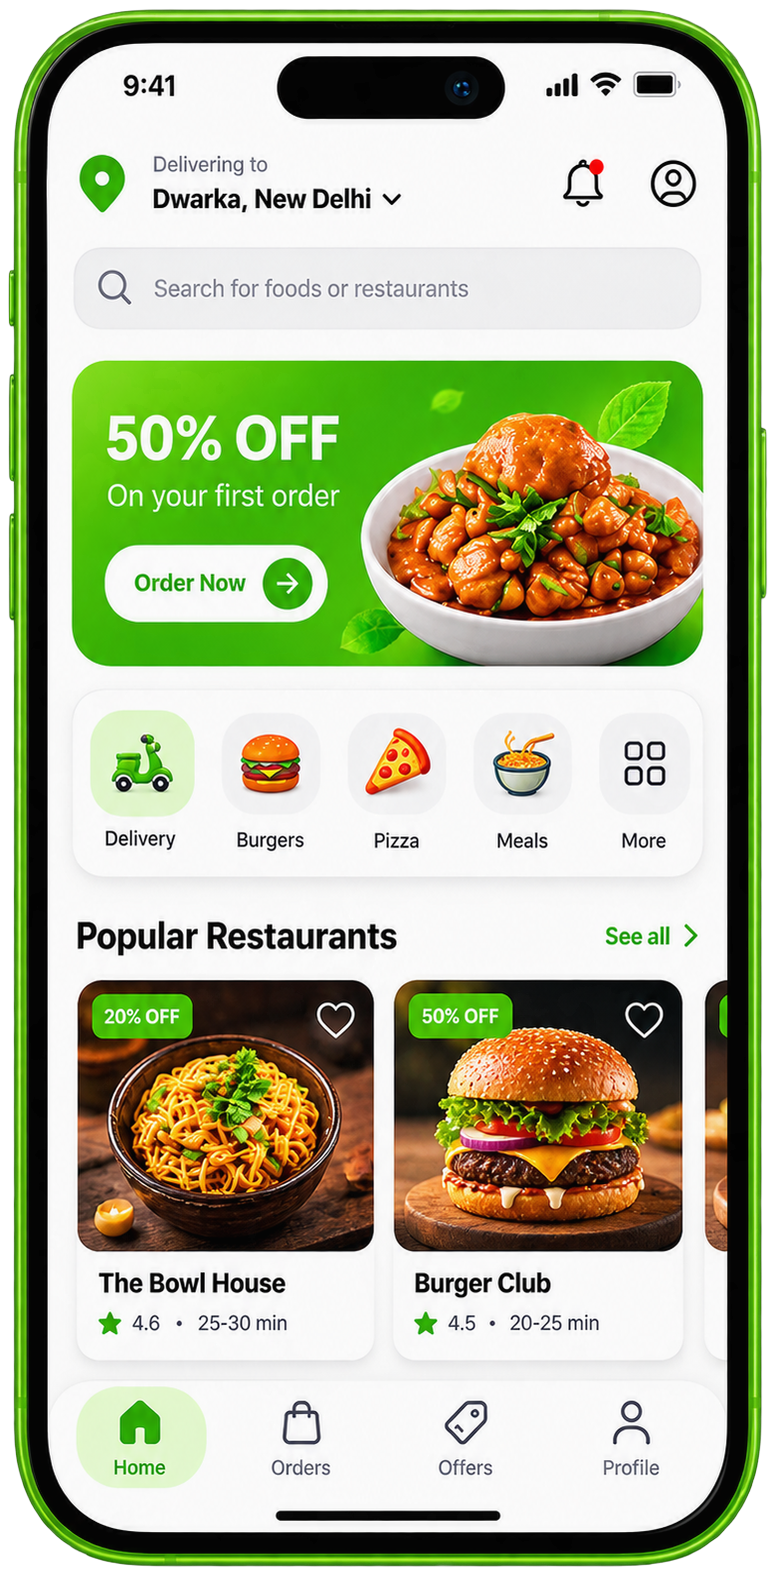
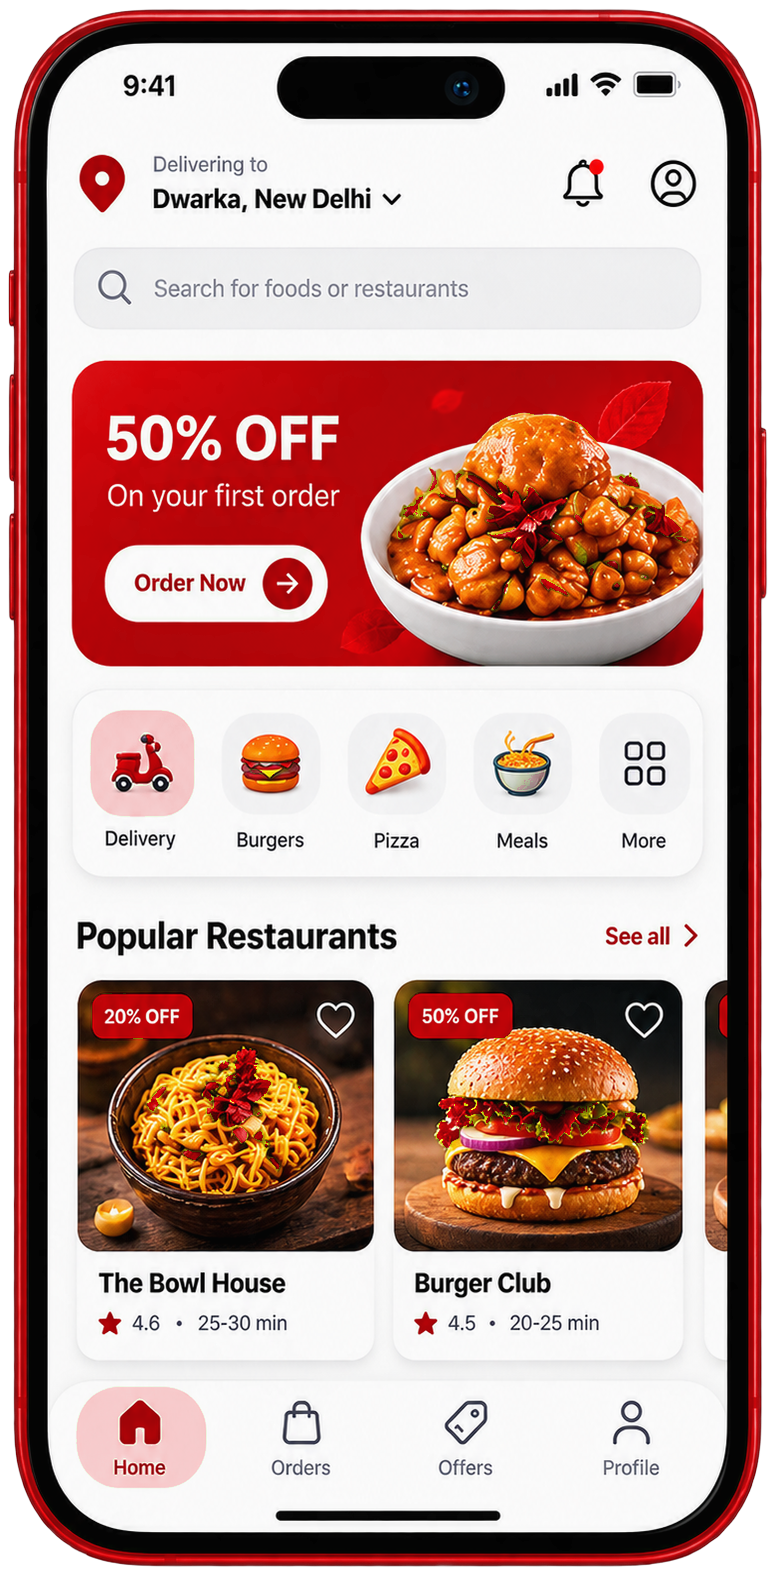
changed color

diff --git a/src/components/landing/Product.tsx b/src/components/landing/Product.tsx
@@ -148,11 +148,11 @@ const productsData: ProductItemData[] = [
     category: "Food Delivery",
     description: "",
     highlights: ["Fast Doorstep Delivery", "Real-Time Tracking", "Secure Payments"],
-    logo: "/new-bhukkadh-icon.png",
+    logo: "/bhukkadh_new.png",
     internalRoute: "/products/bhukkadh",
     webTitle: "Bhukkadh Web",
     webSubtitle: "Food Delivery Platform",
-    webImage: "/Bhukkadh Food Delivery Hero Banner.png",
+    webImage: "/Bhukkadh_Food_Delivery_Hero_Banner_red.png",
     webImageWidth: 1505,
     webImageHeight: 1045,
     webImageAspectRatio: "1505 / 1045",
@@ -166,7 +166,7 @@ const productsData: ProductItemData[] = [
         title: "Bhukkadh Partner",
         subtitle: "Restaurant & Kitchen Dashboard",
         badge: "For Restaurants",
-        image: "/bhukkadh_partner.png",
+        image: "/bhukkadh_partner_red.png",
         playStoreUrl: "https://play.google.com/store/apps/details?id=com.bhukkadh.restaurant",
         appStoreUrl: "https://apps.apple.com/us/app/bhukkadh-partner/id6802583437",
       },
@@ -174,15 +174,15 @@ const productsData: ProductItemData[] = [
         title: "Bhukkadh",
         subtitle: "Order Food & Real-Time Tracking",
         badge: "For Foodies",
-        image: "/bhukkadh_customer_uniform.png",
+        image: "/bhukkadh_customer_uniform_red.png",
         playStoreUrl: "https://play.google.com/store/apps/details?id=com.bhukkhad",
         appStoreUrl: "https://apps.apple.com/us/app/bhukkadh/id6803089673",
       },
       {
-        title: "Bhukkadh Rider",
+        title: "Bhukkadh Master",
         subtitle: "Delivery Partner & Flexible Earnings",
-        badge: "For Delivery Riders",
-        image: "/bhukkadh_rider.png",
+        badge: "For Delivery Masters",
+        image: "/bhukkadh_master_red.png",
         playStoreUrl: "https://play.google.com/store/apps/details?id=com.bhukkadh.rider",
         appStoreUrl: "https://apps.apple.com/us/app/bhukkadh-rider/id6802623601",
       },
@@ -670,7 +670,7 @@ export function ProductSection() {
                             className="relative w-full overflow-hidden flex items-start justify-center bg-white dark:bg-zinc-900"
                           >
                             <Image
-                              src={product.webImage || "/Bhukkadh Food Delivery Hero Banner.png"}
+                              src={product.webImage || "/Bhukkadh_Food_Delivery_Hero_Banner_red.png"}
                               alt={`${product.name} Web Platform`}
                               width={product.webImageWidth || 1505}
                               height={product.webImageHeight || 1045}

diff --git a/src/components/landing/OurProductsSection.tsx b/src/components/landing/OurProductsSection.tsx
@@ -46,7 +46,7 @@ const ourProducts: ProductItem[] = [
     category: "Food Delivery",
     shortTagline: "Hyperlocal on-demand culinary ordering",
     description: "Hyperlocal on-demand food delivery ecosystem connecting hungry foodies, local culinary partners, and dedicated delivery riders.",
-    logo: "/new-bhukkadh-icon.png",
+    logo: "/bhukkadh_new.png",
     websiteUrl: "https://bhukkadh.hindustaan.in/",
     playStoreUrl: "https://play.google.com/store/apps/details?id=com.bhukkhad",
     partnerPlayStoreUrl: "https://play.google.com/store/apps/details?id=com.bhukkadh.restaurant",
